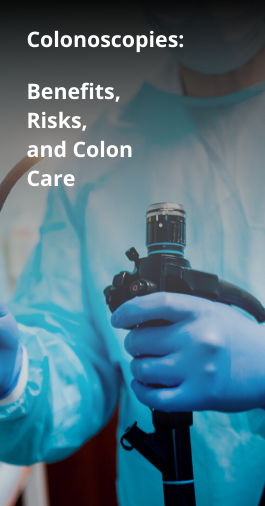
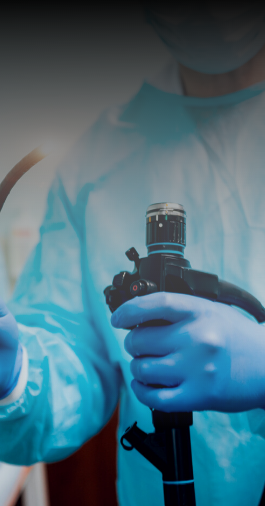
section 5 complete

Changed region(s): [[0.0906, 0.1482, 0.5132, 0.3854], [0.0906, 0.0593, 0.6943, 0.1186]]

diff --git a/project/landing-page-1.html b/project/landing-page-1.html
@@ -727,31 +727,98 @@
         <div class="col-3">
           <div class="zoom">
             <img class="img-fluid" src="../assets/img/stock/Colonoscopies.png"
-              alt="Full Moon Effects on Gut & Body Wellness" />
+              alt="Colonoscopies: Benefits, Risks and Colon Care" />
+            <div class="centered-hl">
+              <h4 class="text-white font-weight-bold">Colonoscopies:
+              </h4>
+              <h5 class="text-white font-weight-bold">
+                Benefits,
+                <br>
+                Risks,
+                <br>
+                and Colon
+                <br>
+                Care
+              </h5>
+            </div>
             <div class="hidden">
               <h6 class="centered text-white font-weight-bold">A colonoscopy is a common medical procedure to screen for
                 colon cancer and related issues. While colonoscopies play a central part...</h6>
-              <button class="btn centered-cta text-warning font-weight-bold">CLICK TO READ MORE</button>
+              <button class="btn centered-cta phase-click">CLICK TO READ MORE</button>
             </div>
           </div>
         </div>
         <div class="col-3">
           <div class="zoom">
             <img class="img-fluid" src="../assets/img/stock/Top 12.png"
-              alt="Top 12 Health Benefits of N-Acetyl Cysteine (NAC)"/>
-              <div class="hidden">
-                <h6 class="centered text-white font-weight-bold">NAC is a common dietary supplement. It’s most recognized for its antioxidant production and liver-protective effects, especially...</h6>
-                <button class="btn centered-cta text-warning font-weight-bold">CLICK TO READ MORE</button>
-              </div>
+              alt="Top 12 Health Benefits of N-Acetyl Cysteine (NAC)" />
+            <div class="centered-hl">
+              <h4 class="text-white font-weight-bold">Top 12
+                <br>
+                Health
+                <br>
+                Benefits of
+                <br>
+                N-Acetyl
+                <br>
+                Cysteine
+                <br>
+                (NAC)
+              </h4>
+            </div>
+            <div class="hidden">
+              <h6 class="centered text-white font-weight-bold">NAC is a common dietary supplement. It’s most recognized
+                for its antioxidant production and liver-protective effects, especially...</h6>
+              <button class="btn centered-cta phase-click">CLICK TO READ MORE</button>
+            </div>
           </div>
         </div>
         <div class="col-3">
           <div class="zoom">
-            <img class="img-fluid" src="../assets/img/stock/Full Moon.png" alt="Full Moon Effects on Gut & Body Wellness" />
+            <img class="img-fluid" src="../assets/img/stock/full-moon-gradiant.jpg"
+              alt="Full Moon Effects on Gut & Body Wellness" />
+            <div class="centered-hl">
+              <h4 class="text-white font-weight-bold">Full Moon
+                <br>
+                Effects
+                <br>
+                on Gut &
+                <br>
+                Body
+                <br>
+                Wellness
+              </h4>
+            </div>
+            <div class="hidden">
+              <h6 class="centered text-white font-weight-bold">Parasites are like unwelcome guests. They show up
+                unannounced and stay way too long. They eat your food, use up your energy, and leave...</h6>
+              <button class="btn centered-cta phase-click">CLICK TO READ MORE</button>
+            </div>
           </div>
         </div>
         <div class="col-3">
-          <img class="zoom" src="../assets/img/stock/Viruses.png" alt="Full Moon Effects on Gut & Body Wellness" />
+          <div class="zoom">
+            <img class="img-fluid" src="../assets/img/stock/Viruses.png" alt="Viruses & Immune Health" />
+            <div class="centered-hl">
+              <h4 class="text-white font-weight-bold">Viruses &
+                <br>
+                Immune
+                <br>
+                Health
+              </h4>
+            </div>
+            <div class="hidden">
+              <h6 class="centered text-white font-weight-bold">Viruses — the tiniest of microbes — could be a big
+                obstacle in your recovery from complex, chronic illness. Yet, they’re often...</h6>
+              <button class="btn centered-cta phase-click font-weight-bold">CLICK TO READ MORE</button>
+            </div>
+          </div>
+        </div>
+      </div>
+      <div class="row">
+        <div class="col-12 text-center mt-5 mb-5">
+            <button type="button" class="btn btn-primary btn-lg"><strong>See More</strong></button>
+          </div>
         </div>
       </div>
 

diff --git a/assets/css/custom.css b/assets/css/custom.css
@@ -44,6 +44,14 @@
   transform: translate(-50%, -50%);
 }
 
+.centered-hl {
+  position: absolute;
+  top: 13%;
+  left: 22%;
+  text-align: left;
+  /* transform: translate(-50%, -50%); */
+}
+
 .centered-cta {
   position: absolute;
   top: 80%;
@@ -53,7 +61,7 @@
 
 .zoom {
   padding: 50px;
-  transition: transform .2s; /* Animation */
+  transition: transform .3s; /* Animation */
   width: 100%;
   margin: 0 auto;
   overflow: hidden;
@@ -71,4 +79,9 @@
 
 .zoom:hover .hidden {
   opacity: 1;
+}
+
+.zoom:hover img {
+  filter: grayscale(60%) brightness(.3) blur(3px);
+  /* -webkit-filter: grayscale(.7) blur(3px); */
 }
